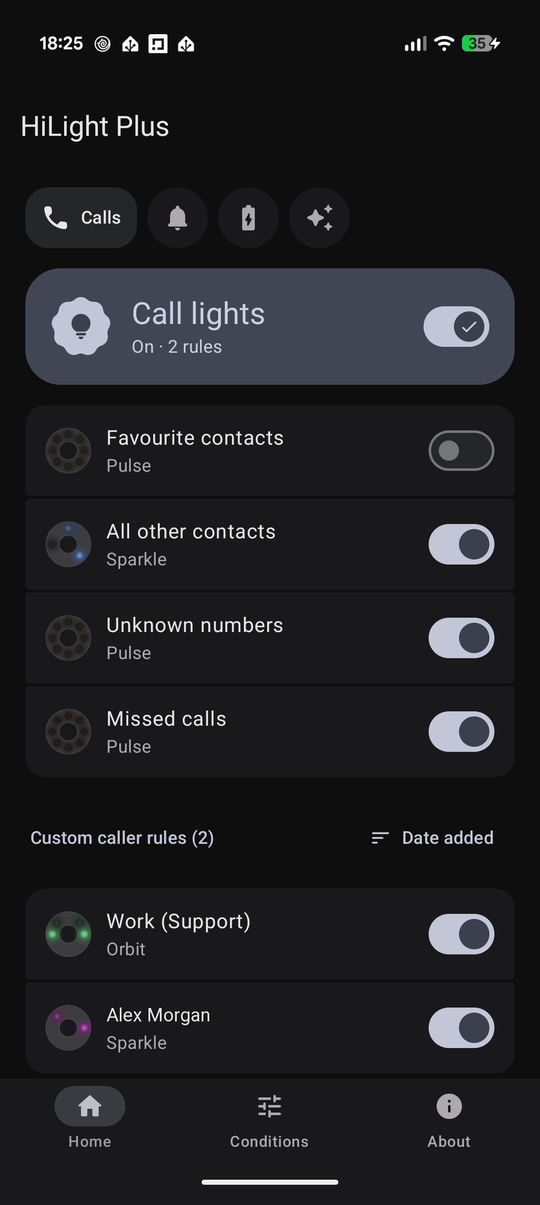
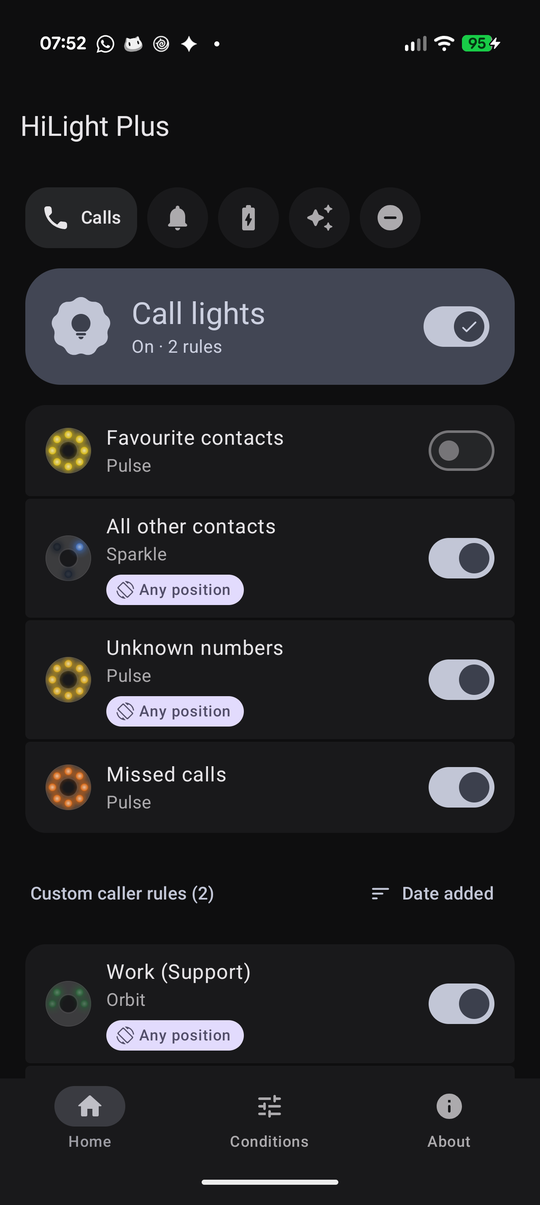
style(ui): one pattern card for every pattern picker
The Battery page's pattern cards were still the old, bigger design:
96dp wide with a 48dp ring, different padding and a 2dp gap. Both
pickers now use one shared card, so they can't drift apart again: 76dp
wide, a 40dp ring, a one-line name and 8dp between cards. Battery keeps
a container one step up from the row it sits on.

The README/XDA screenshots of the Calls, Battery and Gemini pages are
retaken with the five-tab bar (XDA image cache bumped).

diff --git a/app/src/main/java/com/mwilky/hilight/plus/ui/HomeBatterySection.kt b/app/src/main/java/com/mwilky/hilight/plus/ui/HomeBatterySection.kt
@@ -3,12 +3,10 @@
 package com.mwilky.hilight.plus.ui
 
 import androidx.compose.animation.AnimatedVisibility
-import androidx.compose.animation.animateColorAsState
 import androidx.compose.animation.expandVertically
 import androidx.compose.animation.fadeIn
 import androidx.compose.animation.fadeOut
 import androidx.compose.animation.shrinkVertically
-import androidx.compose.animation.core.animateDpAsState
 import androidx.compose.foundation.horizontalScroll
 import androidx.compose.foundation.layout.Arrangement
 import androidx.compose.foundation.layout.Column
@@ -25,7 +23,6 @@ import androidx.compose.foundation.layout.size
 import androidx.compose.foundation.layout.width
 import androidx.compose.foundation.rememberScrollState
 import androidx.compose.foundation.shape.CircleShape
-import androidx.compose.foundation.shape.RoundedCornerShape
 import androidx.compose.foundation.verticalScroll
 import androidx.compose.material.icons.Icons
 import androidx.compose.material.icons.rounded.Schedule
@@ -213,7 +210,7 @@ private fun ChargingGroup(
                 modifier = Modifier
                     .fillMaxWidth()
                     .horizontalScroll(rememberScrollState()),
-                horizontalArrangement = Arrangement.spacedBy(ListItemDefaults.SegmentedGap)
+                horizontalArrangement = Arrangement.spacedBy(PATTERN_CARD_GAP)
             ) {
                 BatteryPattern.entries.forEach { pattern ->
                     BatteryPatternCard(
@@ -290,7 +287,7 @@ private fun LowBatteryGroup(
             modifier = Modifier
                 .fillMaxWidth()
                 .horizontalScroll(rememberScrollState()),
-            horizontalArrangement = Arrangement.spacedBy(ListItemDefaults.SegmentedGap)
+            horizontalArrangement = Arrangement.spacedBy(PATTERN_CARD_GAP)
         ) {
             LowBatteryPattern.entries.forEach { pattern ->
                 LowPatternCard(
@@ -788,42 +785,19 @@ private fun PatternPreviewCard(
         }
     }
 
-    val corner by animateDpAsState(
-        targetValue = if (selected) 28.dp else 16.dp,
-        animationSpec = MaterialTheme.motionScheme.fastSpatialSpec(),
-        label = "patternCardCorner"
-    )
-    val container by animateColorAsState(
-        targetValue = if (selected) MaterialTheme.colorScheme.primaryContainer else MaterialTheme.colorScheme.surfaceContainerHighest,
-        animationSpec = MaterialTheme.motionScheme.defaultEffectsSpec(),
-        label = "patternCardContainer"
-    )
-
-    Surface(
+    // The rule editor's card, one step up from the surfaceContainer row it sits on.
+    PatternChoiceCard(
+        title = title,
         selected = selected,
         onClick = onClick,
-        shape = RoundedCornerShape(corner),
-        color = container,
-        modifier = Modifier.width(96.dp)
+        unselectedColor = MaterialTheme.colorScheme.surfaceContainerHighest
     ) {
-        Column(
-            modifier = Modifier.padding(vertical = 12.dp),
-            horizontalAlignment = Alignment.CenterHorizontally,
-            verticalArrangement = Arrangement.spacedBy(4.dp)
-        ) {
-            DiffusedRingPreview(
-                frames = frames,
-                modifier = Modifier
-                    .size(48.dp)
-                    .clip(CircleShape),
-                size = 48.dp
-            )
-            Text(
-                text = title,
-                style = MaterialTheme.typography.labelMedium,
-                maxLines = 1,
-                overflow = TextOverflow.Ellipsis
-            )
-        }
+        DiffusedRingPreview(
+            frames = frames,
+            modifier = Modifier
+                .size(PATTERN_CARD_RING)
+                .clip(CircleShape),
+            size = PATTERN_CARD_RING
+        )
     }
 }

diff --git a/app/src/main/java/com/mwilky/hilight/plus/ui/RuleEditor.kt b/app/src/main/java/com/mwilky/hilight/plus/ui/RuleEditor.kt
@@ -388,7 +388,7 @@ private fun RuleEditorContent(
                         LazyRow(
                             state = listState,
                             modifier = Modifier.padding(horizontal = 16.dp),
-                            horizontalArrangement = Arrangement.spacedBy(8.dp)
+                            horizontalArrangement = Arrangement.spacedBy(PATTERN_CARD_GAP)
                         ) {
                             items(group.patterns, key = { it.id }) { p ->
                                 PatternCard(
@@ -741,13 +741,42 @@ private fun PatternCard(
     renderer: PatternRenderer,
     onClick: () -> Unit
 ) {
+    PatternChoiceCard(
+        title = title,
+        selected = selected,
+        onClick = onClick,
+        unselectedColor = MaterialTheme.colorScheme.surfaceContainerHigh
+    ) {
+        PatternRing(pattern = pattern, color = color, elapsedMs = elapsedMs, renderer = renderer, size = PATTERN_CARD_RING)
+    }
+}
+
+/** Ring size inside a [PatternChoiceCard]. */
+internal val PATTERN_CARD_RING = 40.dp
+
+/** Gap between [PatternChoiceCard]s in a row. */
+internal val PATTERN_CARD_GAP = 8.dp
+
+/**
+ * A selectable pattern card: a live ring over a one-line name. Shared by the rule editor and the
+ * Battery page so every pattern picker is the same size and spacing. [unselectedColor] is a step
+ * up from whatever the cards sit on.
+ */
+@Composable
+internal fun PatternChoiceCard(
+    title: String,
+    selected: Boolean,
+    onClick: () -> Unit,
+    unselectedColor: Color,
+    ring: @Composable () -> Unit
+) {
     val corner by animateDpAsState(
         targetValue = if (selected) 28.dp else 16.dp,
         animationSpec = MaterialTheme.motionScheme.fastSpatialSpec(),
         label = "patternCorner"
     )
     val container by animateColorAsState(
-        targetValue = if (selected) MaterialTheme.colorScheme.primaryContainer else MaterialTheme.colorScheme.surfaceContainerHigh,
+        targetValue = if (selected) MaterialTheme.colorScheme.primaryContainer else unselectedColor,
         animationSpec = MaterialTheme.motionScheme.defaultEffectsSpec(),
         label = "patternContainer"
     )
@@ -763,9 +792,8 @@ private fun PatternCard(
             horizontalAlignment = Alignment.CenterHorizontally,
             verticalArrangement = Arrangement.spacedBy(6.dp)
         ) {
-            PatternRing(pattern = pattern, color = color, elapsedMs = elapsedMs, renderer = renderer, size = 40.dp)
-            // One line: every name fits once the group heading carries the rest, so the cards
-            // stay compact and all the same height.
+            ring()
+            // One line, so the cards stay compact and all the same height.
             Text(
                 text = title,
                 style = MaterialTheme.typography.labelMedium,
